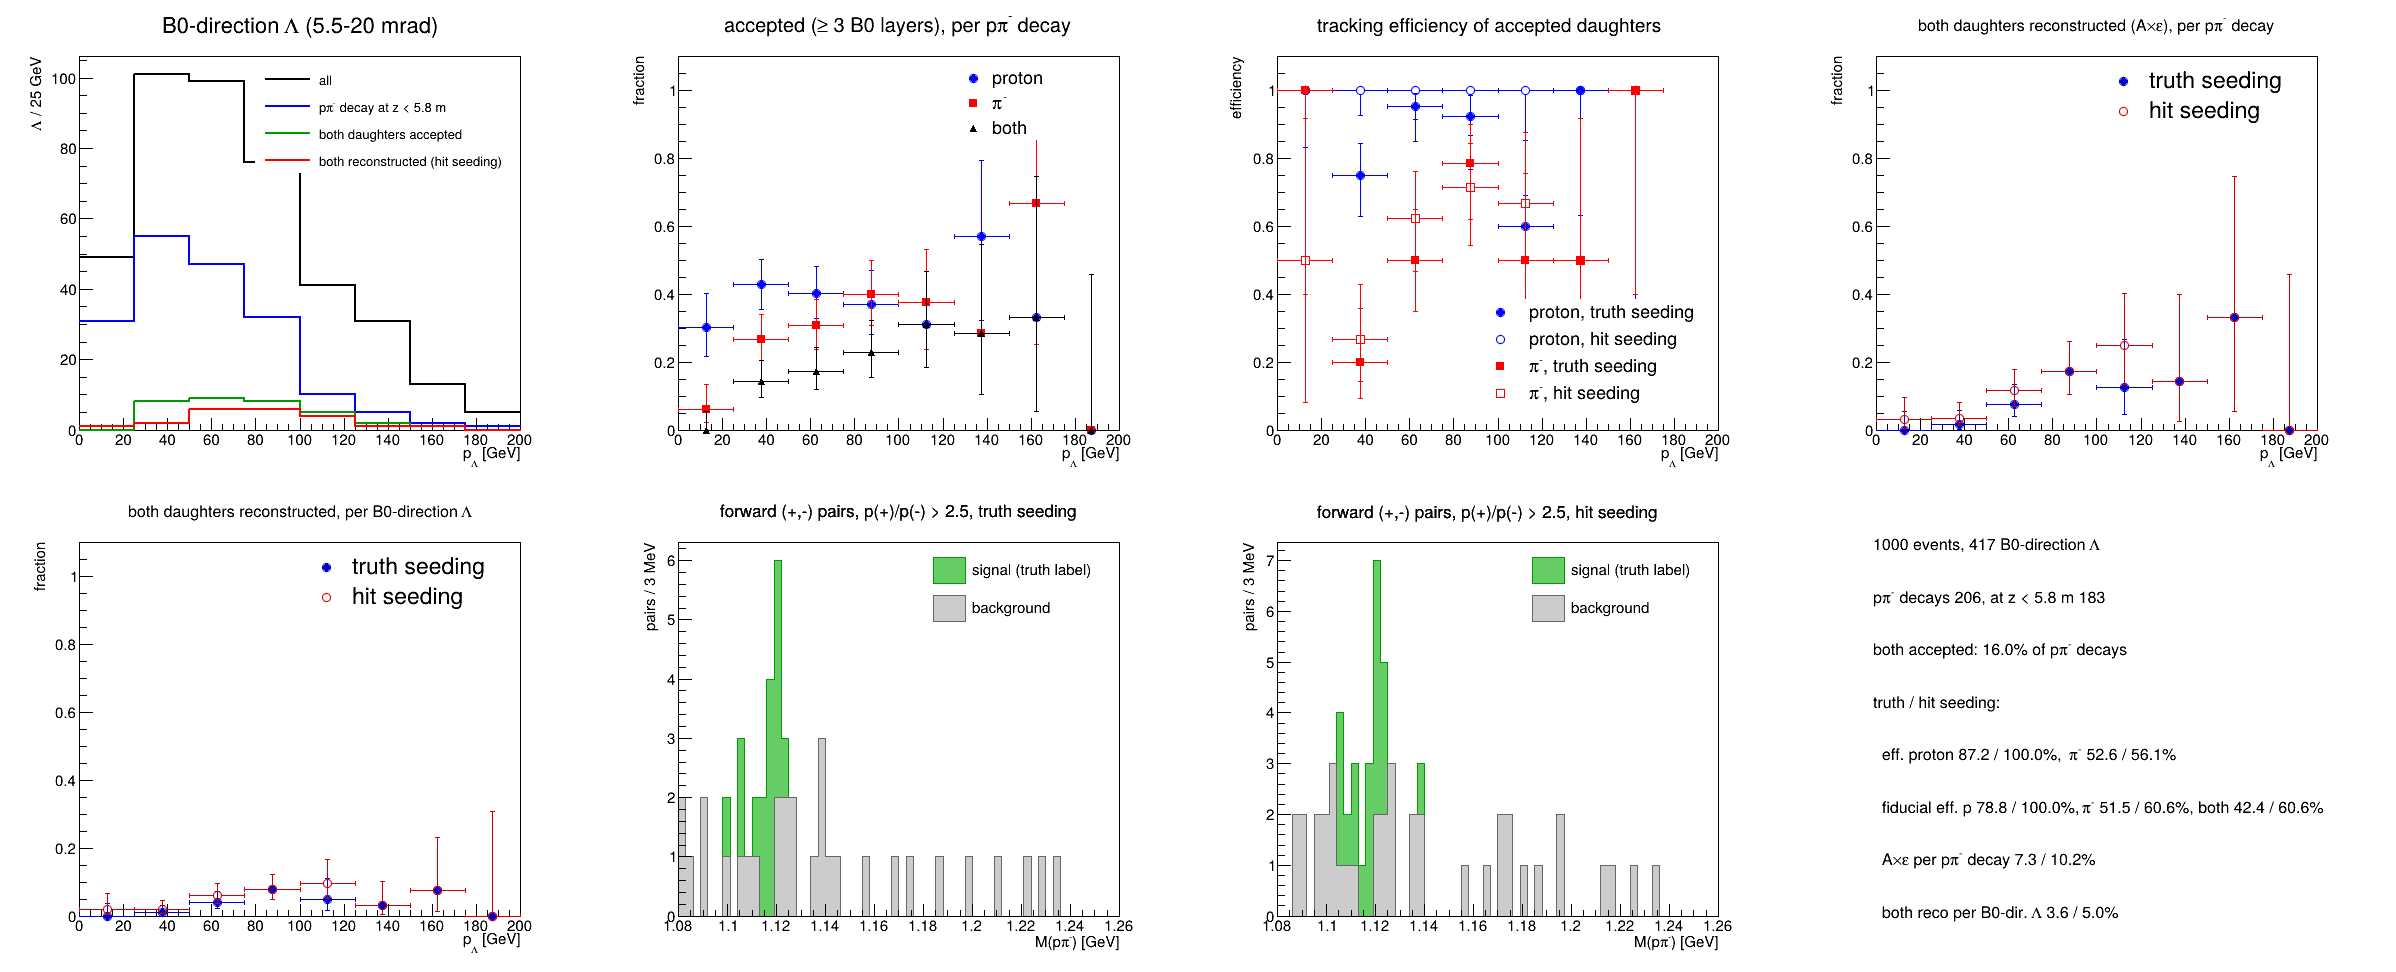
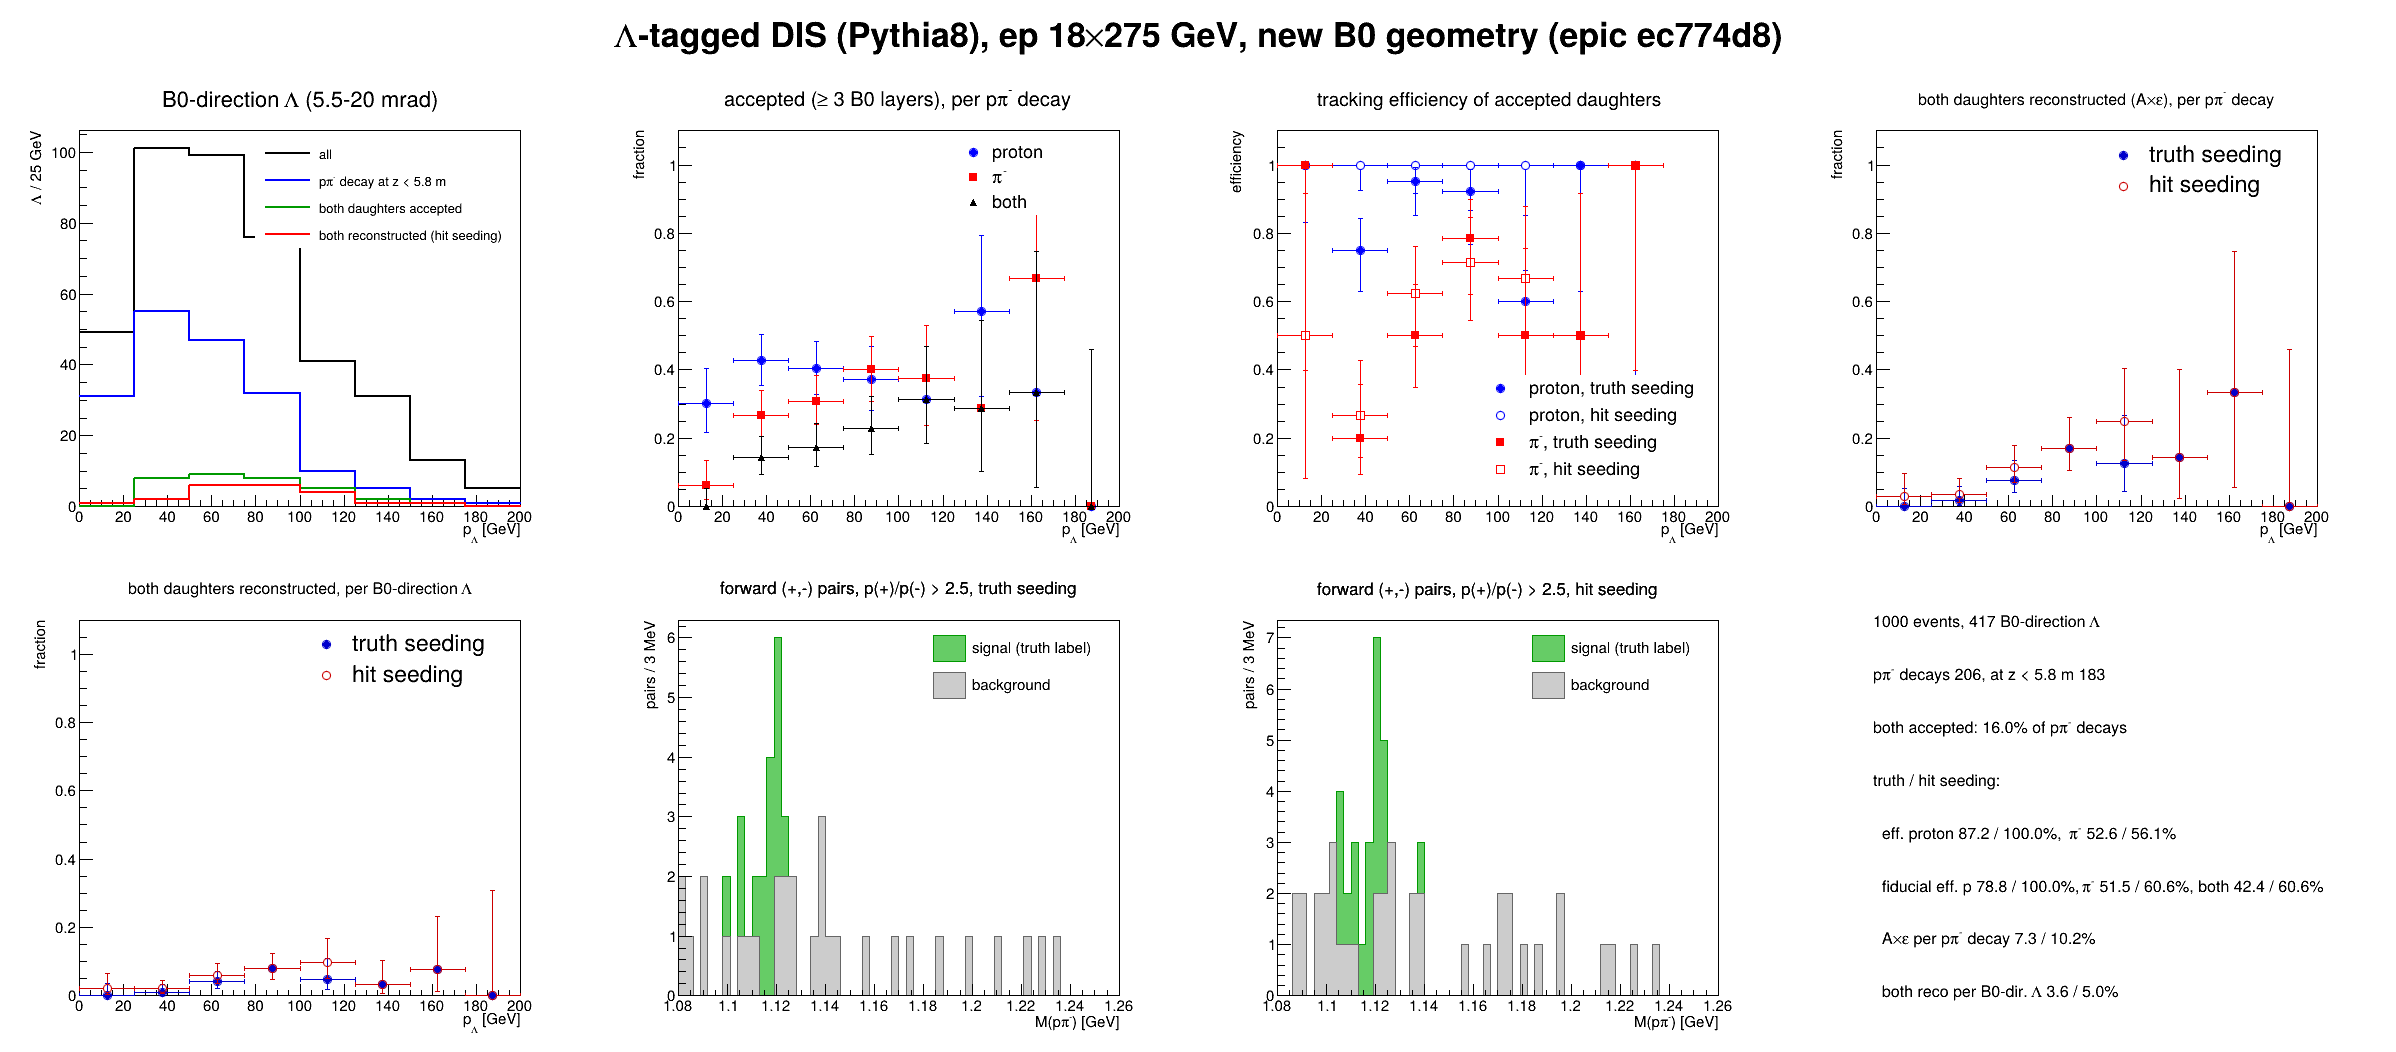
lambda_dis.C: title with the sample (beam energies, geometry); drop combined per-geometry PNGs

diff --git a/macros/dis/lambda_dis.C b/macros/dis/lambda_dis.C
@@ -18,7 +18,8 @@
 // ../mass/lambda_mass_notruth.C. Truth only labels signal (both from the same Lambda -> p pi-).
 //
 // Input: comma-separated list of EICrecon output files or patterns.
-// Output: printout and <outbase>.png (4 x 2; the last pad lists the main numbers).
+// Output: printout and <outbase>.png (4 x 2 under a title naming the sample (from the file names); the last pad
+// lists the main numbers).
 // Usage (from the repository top):
 //   root -l -b -q 'macros/dis/lambda_dis.C+("/eos/user/g/gninio/eic/lambda_dis/dis_lambda_new_s30?.eicreconpr3116.edm4eic.root","results/09_dis/dis_new")'
 #include "../common/LambdaB0.h"
@@ -30,6 +31,7 @@
 #include "TF1.h"
 #include "TStyle.h"
 #include "TPaveText.h"
+#include "TLatex.h"
 #include <cstdio>
 
 void lambda_dis(const char* files = "/eos/user/g/gninio/eic/lambda_dis/dis_lambda_new_s30?.eicreconpr3116.edm4eic.root",
@@ -147,8 +149,15 @@ void lambda_dis(const char* files = "/eos/user/g/gninio/eic/lambda_dis/dis_lambd
   }
 
   gStyle->SetOptStat(0);
-  TCanvas c("c", "", 2400, 1000); c.Divide(4, 2);
-  c.cd(1);
+  // title: beam energies and geometry, from the file names
+  TString fs(files), beam = fs.Contains("9x130") ? "ep 9#times130 GeV" : "ep 18#times275 GeV";
+  TString title = fs.Contains("campaign") ? "ePIC campaign 26.07.3 SIDIS, " + beam + ", campaign geometry and reconstruction"
+                : "#Lambda-tagged DIS (Pythia8), " + beam + (fs.Contains("_old_") ? ", old B0 geometry (epic 43f427e)"
+                : fs.Contains("_new_") ? ", new B0 geometry (epic ec774d8)" : "");
+  TCanvas c("c", "", 2400, 1080);
+  TLatex tl; tl.SetNDC(); tl.SetTextAlign(22); tl.SetTextSize(0.035); tl.SetTextFont(62); tl.DrawLatex(0.5, 0.965, title);
+  TPad pm("pm", "", 0, 0, 1, 0.93); pm.Draw(); pm.Divide(4, 2);
+  pm.cd(1);
   hAll.SetLineColor(kBlack); hBef.SetLineColor(kBlue); hAcc.SetLineColor(kGreen + 2); hRec.SetLineColor(kRed);
   for (TH1D* h : {&hAll, &hBef, &hAcc, &hRec}) h->SetLineWidth(2);
   hAll.SetMinimum(0); hAll.Draw("hist"); hBef.Draw("hist same"); hAcc.Draw("hist same"); hRec.Draw("hist same");
@@ -156,7 +165,7 @@ void lambda_dis(const char* files = "/eos/user/g/gninio/eic/lambda_dis/dis_lambd
   l1.AddEntry(&hAll, "all", "l"); l1.AddEntry(&hBef, "p#pi^{-} decay at z < 5.8 m", "l");
   l1.AddEntry(&hAcc, "both daughters accepted", "l"); l1.AddEntry(&hRec, "both reconstructed (hit seeding)", "l"); l1.Draw();
   Style(aP, kBlue, 20); Style(aPi, kRed, 21); Style(aB, kBlack, 22);
-  c.cd(2); DrawEff({&aP, &aPi, &aB});
+  pm.cd(2); DrawEff({&aP, &aPi, &aB});
   TLegend l2(0.6, 0.72, 0.88, 0.88); l2.SetBorderSize(0);
   l2.AddEntry(&aP, "proton", "p"); l2.AddEntry(&aPi, "#pi^{-}", "p"); l2.AddEntry(&aB, "both", "p"); l2.Draw();
   for (int s = 0; s < 2; ++s) {
@@ -164,14 +173,14 @@ void lambda_dis(const char* files = "/eos/user/g/gninio/eic/lambda_dis/dis_lambd
     Style(eP[s], kBlue, m); Style(ePi[s], kRed, m + 1);
     Style(axe[s], s ? kRed + 1 : kBlue + 1, m); Style(yld[s], s ? kRed + 1 : kBlue + 1, m);
   }
-  c.cd(3); DrawEff({&eP[0], &eP[1], &ePi[0], &ePi[1]});
+  pm.cd(3); DrawEff({&eP[0], &eP[1], &ePi[0], &ePi[1]});
   TLegend l3(0.45, 0.15, 0.88, 0.38); l3.SetBorderSize(0);
   l3.AddEntry(&eP[0], "proton, truth seeding", "p"); l3.AddEntry(&eP[1], "proton, hit seeding", "p");
   l3.AddEntry(&ePi[0], "#pi^{-}, truth seeding", "p"); l3.AddEntry(&ePi[1], "#pi^{-}, hit seeding", "p"); l3.Draw();
-  c.cd(4); DrawEff({&axe[0], &axe[1]});
+  pm.cd(4); DrawEff({&axe[0], &axe[1]});
   TLegend l4(0.5, 0.75, 0.88, 0.88); l4.SetBorderSize(0);
   l4.AddEntry(&yld[0], "truth seeding", "p"); l4.AddEntry(&yld[1], "hit seeding", "p"); l4.Draw();
-  c.cd(5); DrawEff({&yld[0], &yld[1]}); l4.Draw();
+  pm.cd(5); DrawEff({&yld[0], &yld[1]}); l4.Draw();
   THStack st[2] = {THStack("st0", ""), THStack("st1", "")};
   TLegend l5(0.55, 0.72, 0.88, 0.88); l5.SetBorderSize(0);
   l5.AddEntry(&hS[0], "signal (truth label)", "f"); l5.AddEntry(&hB[0], "background", "f");
@@ -180,10 +189,10 @@ void lambda_dis(const char* files = "/eos/user/g/gninio/eic/lambda_dis/dis_lambd
     hB[s].SetFillColor(kGray); hB[s].SetLineColor(kGray + 2);
     st[s].SetTitle(TString::Format("forward (+,-) pairs, p(+)/p(-) > %.1f, %s;M(p#pi^{-}) [GeV];pairs / 3 MeV", minRatio, seed[s].Name()));
     st[s].Add(&hB[s]); st[s].Add(&hS[s]);
-    c.cd(6 + s); st[s].Draw("hist"); l5.Draw();
+    pm.cd(6 + s); st[s].Draw("hist"); l5.Draw();
   }
   // main numbers (truth / hit seeding)
-  c.cd(8);
+  pm.cd(8);
   TPaveText t(0.05, 0.05, 0.95, 0.95, "NDC"); t.SetFillColor(0); t.SetBorderSize(0); t.SetTextAlign(12); t.SetTextFont(42);
   t.AddText(TString::Format("%ld events, %ld B0-direction #Lambda", nEv, nB0));
   t.AddText(TString::Format("p#pi^{-} decays %ld, at z < 5.8 m %ld", nPPi, nBef));

diff --git a/notes/claude_log.md b/notes/claude_log.md
@@ -515,3 +515,4 @@ Macro `~/private/eic/compare_tracks.C` (run in `~/private/eic`). Both use the co
 - 2026-11-18: Λ fate check (18x275, B0-direction Λs; scratch /tmp/gninio/fate/fate.C): old p π⁻ 216, n π⁰ 117, no decay 84 (20 %); new 206 / 130 / 81. The non-decaying ones interact mostly at z = 5.8–20 m (B0 and downstream material). p π⁻ / (p π⁻ + n π⁰) = 65 / 61 % ≈ BR 64 %. ⇒ 206 not 640: 1000 events → 417 B0-direction Λs → ~50 % p π⁻.
 - User: separate old/new geometries into 2 files, PDF. `lambda_dis.C` also saves `<outbase>.pdf` and names the input in the text pad; reran 4 own samples; `results/09_dis/dis_{old,new}_geometry_18x275_9x130.pdf` (pdfunite, page 1 18x275, page 2 9x130); added to make_results.sh 09.
 - 2026-11-18: the ROOT PDFs put the wide canvas on a rotated A4 page (looked shrunken). Tried paper size / EPS route, then user: revert, back to PNG, just split old and new into two PNGs. Reverted b85d92c (macro back to PNG only, PDFs removed, make_results back); notes kept. New: `results/09_dis/dis_{old,new}_geometry_18x275_9x130.png` (montage, 18x275 above 9x130). The leftover ROOT run on lxplus was stopped.
+- 2026-11-18: user wants one file per sample (the 4 per-sample PNGs dis_{,9x130_}{old,new}.png) → combined per-geometry PNGs deleted. `lambda_dis.C`: title above the 4 × 2 panels naming the sample, from the file names (e.g. "Λ-tagged DIS (Pythia8), ep 9×130 GeV, new B0 geometry (epic ec774d8)"; campaign files get "ePIC campaign 26.07.3 SIDIS …"); canvas 2400 × 1080. Reran the 4 own samples (numbers unchanged). Campaign not rerun (user: not needed); its committed png/txt kept. (A first rerun used wrong file names — dropped ".eicreconpr3116" — and read 0 events; redone.)
